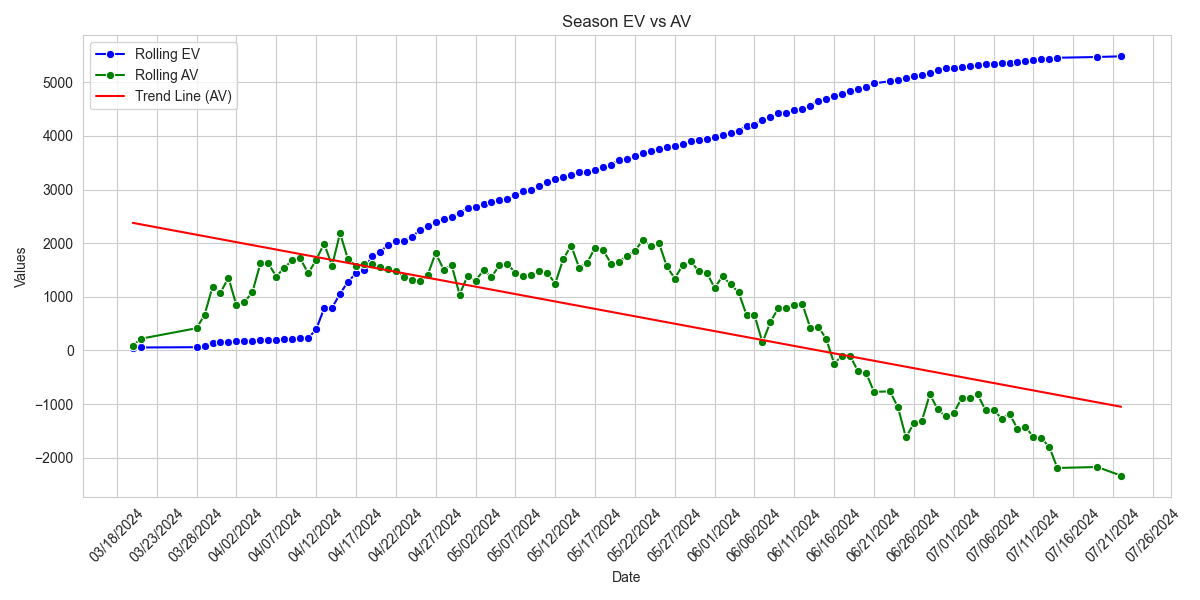
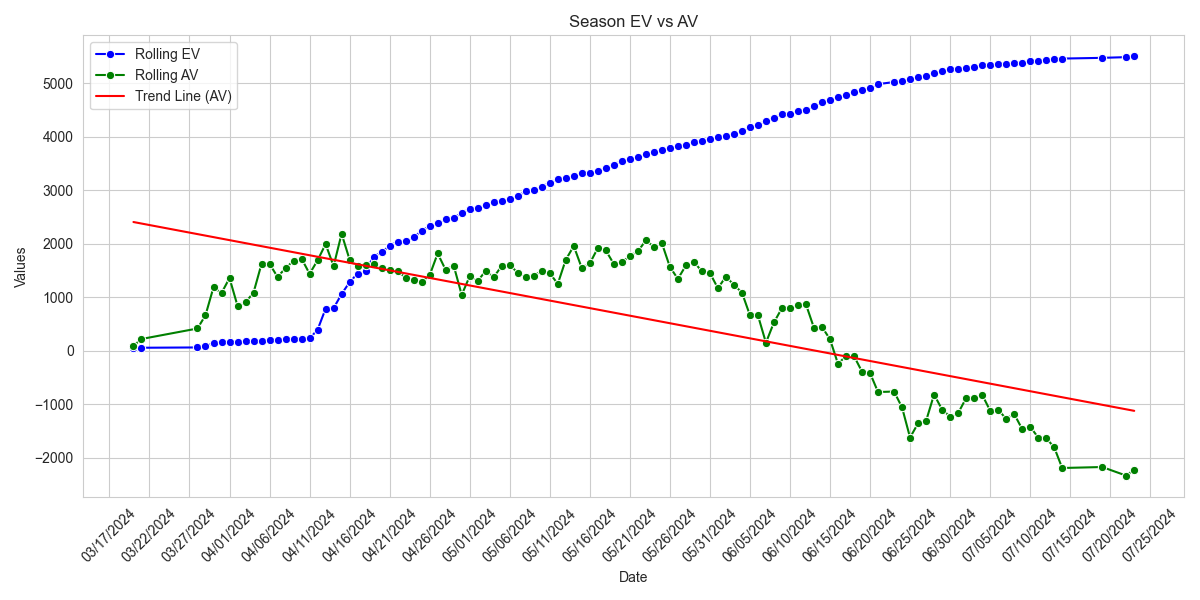
web

diff --git a/index.html b/index.html
@@ -1,1 +1,1 @@
-<html><head><meta name="viewport" content="width=device-width, initial-scale=1"><meta http-equiv="Cache-Control" content="no-cache, no-store, must-revalidate"><meta http-equiv="Pragma" content="no-cache"><meta http-equiv="Expires" content="0"><title>MLB Shit</title><link rel="stylesheet" type="text/css" href="styles.css"></head><body><p><b>Daily Picks</b></p><table><tr><th>Date</th><th>Team</th><th>Price</th><th>Bet</th><th>Win</th><th>WP</th><th>EV</th><th>Type</th><th>Result</th></tr><tr><td>07/23/2024</td><td><img src='https://www.mlbstatic.com/team-logos/138.svg' height=30 width=30></td><td>+154</td><td>$64.75</td><td>$99.72</td><td>41.9%</td><td>4.2%</td><td>Dog</td><td></td></td><tr><td>07/23/2024</td><td><img src='https://www.mlbstatic.com/team-logos/110.svg' height=30 width=30></td><td>-162</td><td>$104.00</td><td>$64.20</td><td>65.9%</td><td>6.8%</td><td>Fav</td><td></td></td><tr><td>07/23/2024</td><td><img src='https://www.mlbstatic.com/team-logos/114.svg' height=30 width=30></td><td>-135</td><td>$90.00</td><td>$66.67</td><td>58.9%</td><td>2.3%</td><td>Fav</td><td></td></td><tr><td>07/23/2024</td><td><img src='https://www.mlbstatic.com/team-logos/147.svg' height=30 width=30></td><td>-162</td><td>$95.00</td><td>$58.64</td><td>62.1%</td><td>0.4%</td><td>Fav</td><td></td></td><tr><td>07/23/2024</td><td><img src='https://www.mlbstatic.com/team-logos/139.svg' height=30 width=30></td><td>+114</td><td>$71.25</td><td>$81.23</td><td>47.2%</td><td>0.7%</td><td>Dog</td><td></td></td><tr><td>07/23/2024</td><td><img src='https://www.mlbstatic.com/team-logos/119.svg' height=30 width=30></td><td>-142</td><td>$90.75</td><td>$63.91</td><td>59.5%</td><td>1.3%</td><td>Fav</td><td></td></td><tr><th colspan=9><B>SUMMARY: $515.75 in play to win $434.37</B></th></tr><tr><th colspan=9><B>LAST UPDATED: 07/23/2024 03:36 PM</B></th></tr></table><p><b>Monthly Totals</b></p><table><tr><th>Date</th><th>Profit</th><th>W/L</th><th>Favs</th><th>Dogs</th><th>Fav $</th><th>Dog $</th></tr><tr><td>07/01/2024</td><td>$62.68</td><td>1-0</td><td>1-0</td><td>0</td><td>$62.68</td><td>$0.00</td></td><tr><td>07/02/2024</td><td>$281.90</td><td>7-3</td><td>3-1</td><td>4-2</td><td>$107.39</td><td>$174.51</td></td><tr><td>07/03/2024</td><td>$-0.70</td><td>5-4</td><td>2-3</td><td>3-1</td><td>$-167.00</td><td>$166.30</td></td><tr><td>07/04/2024</td><td>$66.25</td><td>5-3</td><td>4-3</td><td>1-0</td><td>$-20.96</td><td>$87.21</td></td><tr><td>07/05/2024</td><td>$-298.50</td><td>2-5</td><td>2-3</td><td>0-2</td><td>$-146.25</td><td>$-152.25</td></td><tr><td>07/06/2024</td><td>$17.15</td><td>4-3</td><td>4-2</td><td>0-1</td><td>$89.90</td><td>$-72.75</td></td><tr><td>07/07/2024</td><td>$-169.83</td><td>2-4</td><td>2-1</td><td>0-3</td><td>$43.42</td><td>$-213.25</td></td><tr><td>07/08/2024</td><td>$90.88</td><td>4-2</td><td>3-1</td><td>1-1</td><td>$94.18</td><td>$-3.30</td></td><tr><td>07/09/2024</td><td>$-282.30</td><td>1-4</td><td>1-3</td><td>0-1</td><td>$-213.80</td><td>$-68.50</td></td><tr><td>07/10/2024</td><td>$44.66</td><td>7-5</td><td>3-5</td><td>4-0</td><td>$-296.13</td><td>$340.79</td></td><tr><td>07/11/2024</td><td>$-203.27</td><td>2-4</td><td>2-2</td><td>0-2</td><td>$-54.77</td><td>$-148.50</td></td><tr><td>07/12/2024</td><td>$-11.66</td><td>3-3</td><td>2-0</td><td>1-3</td><td>$131.05</td><td>$-142.71</td></td><tr><td>07/13/2024</td><td>$-169.94</td><td>4-5</td><td>3-4</td><td>1-1</td><td>$-171.59</td><td>$1.65</td></td><tr><td>07/14/2024</td><td>$-388.12</td><td>4-7</td><td>4-5</td><td>0-2</td><td>$-243.12</td><td>$-145.00</td></td><tr><td>07/19/2024</td><td>$18.40</td><td>3-2</td><td>3-2</td><td>0</td><td>$18.40</td><td>$0.00</td></td><tr><td>07/22/2024</td><td>$-160.78</td><td>3-4</td><td>3-2</td><td>0-2</td><td>$-8.78</td><td>$-152.00</td></td><tr><th colspan=7>TOTALS</th></tr><tr><th colspan=2>Monthly Profit</th><th colspan=2>W%</th><th>Fav W%</th><th>Dog W%</th><th>Predicted Upset W%</th></tr><tr><td colspan=2>$-1,103.18</td><td colspan=2>49.6%</td><td>53.2%</td><td>41.7%</td><td>40.0%</td></tr></table><p><b>Season Totals</b></p><table width="30%"><tr><th width="25%">Month</th><th width="25%">Profit</th><th width="25%" colspan=2>Bankroll Growth</th></tr><tr><td>March</td><td>$1,077.72</td><td colspan=2>13.4715%</td></td><tr><td>April</td><td>$-35.26</td><td colspan=2>-0.44075%</td></td><tr><td>May</td><td>$410.27</td><td colspan=2>5.128375%</td></td><tr><td>June</td><td>$-2,683.52</td><td colspan=2>-33.544%</td></td><tr><td>July</td><td>$-1,103.18</td><td colspan=2>-13.78975%</td></td><tr><td><b><i>TOTAL</i></b></td><td><b><i>$-2,333.97</i></b></td><td colspan=2><b><i>-29.174625%</i></b></td></td><tr><th colspan=4>Performance</th></tr><tr><th>Season W%</th><th>Fav W%</th><th>Dog W%</th><th>Predicted Upset W%</th></tr><tr><td>50.7%</td><td>56.6%</td><td>45.3%</td><td>47.5%</td></tr></table><p><table><tr><td><img class="chart" src="images/ev_graph.png"></td></tr></table></p></body></html>
+<html><head><meta name="viewport" content="width=device-width, initial-scale=1"><meta http-equiv="Cache-Control" content="no-cache, no-store, must-revalidate"><meta http-equiv="Pragma" content="no-cache"><meta http-equiv="Expires" content="0"><title>MLB Shit</title><link rel="stylesheet" type="text/css" href="styles.css"></head><body><p><b>Daily Picks</b></p><table><tr><th>Date</th><th>Team</th><th>Price</th><th>Bet</th><th>Win</th><th>WP</th><th>EV</th><th>Type</th><th>Result</th></tr><tr><td>07/24/2024</td><td><img src='https://www.mlbstatic.com/team-logos/158.svg' height=30 width=30></td><td>+120</td><td>$68.75</td><td>$82.50</td><td>45.6%</td><td>0.2%</td><td>Dog</td><td></td></td><tr><td>07/24/2024</td><td><img src='https://www.mlbstatic.com/team-logos/114.svg' height=30 width=30></td><td>-155</td><td>$93.25</td><td>$60.16</td><td>61.0%</td><td>0.3%</td><td>Fav</td><td></td></td><tr><td>07/24/2024</td><td><img src='https://www.mlbstatic.com/team-logos/110.svg' height=30 width=30></td><td>-142</td><td>$93.75</td><td>$66.02</td><td>60.9%</td><td>3.5%</td><td>Fav</td><td></td></td><tr><td>07/24/2024</td><td><img src='https://www.mlbstatic.com/team-logos/147.svg' height=30 width=30></td><td>-170</td><td>$99.75</td><td>$58.68</td><td>64.3%</td><td>2.1%</td><td>Fav</td><td></td></td><tr><td>07/24/2024</td><td><img src='https://www.mlbstatic.com/team-logos/145.svg' height=30 width=30></td><td>+210</td><td>$50.75</td><td>$106.58</td><td>32.4%</td><td>0.2%</td><td>Dog</td><td></td></td><tr><th colspan=9><B>SUMMARY: $406.25 in play to win $373.94</B></th></tr><tr><th colspan=9><B>LAST UPDATED: 07/24/2024 08:27 AM</B></th></tr></table><p><b>Monthly Totals</b></p><table><tr><th>Date</th><th>Profit</th><th>W/L</th><th>Favs</th><th>Dogs</th><th>Fav $</th><th>Dog $</th></tr><tr><td>07/01/2024</td><td>$62.68</td><td>1-0</td><td>1-0</td><td>0</td><td>$62.68</td><td>$0.00</td></td><tr><td>07/02/2024</td><td>$281.90</td><td>7-3</td><td>3-1</td><td>4-2</td><td>$107.39</td><td>$174.51</td></td><tr><td>07/03/2024</td><td>$-0.70</td><td>5-4</td><td>2-3</td><td>3-1</td><td>$-167.00</td><td>$166.30</td></td><tr><td>07/04/2024</td><td>$66.25</td><td>5-3</td><td>4-3</td><td>1-0</td><td>$-20.96</td><td>$87.21</td></td><tr><td>07/05/2024</td><td>$-298.50</td><td>2-5</td><td>2-3</td><td>0-2</td><td>$-146.25</td><td>$-152.25</td></td><tr><td>07/06/2024</td><td>$17.15</td><td>4-3</td><td>4-2</td><td>0-1</td><td>$89.90</td><td>$-72.75</td></td><tr><td>07/07/2024</td><td>$-169.83</td><td>2-4</td><td>2-1</td><td>0-3</td><td>$43.42</td><td>$-213.25</td></td><tr><td>07/08/2024</td><td>$90.88</td><td>4-2</td><td>3-1</td><td>1-1</td><td>$94.18</td><td>$-3.30</td></td><tr><td>07/09/2024</td><td>$-282.30</td><td>1-4</td><td>1-3</td><td>0-1</td><td>$-213.80</td><td>$-68.50</td></td><tr><td>07/10/2024</td><td>$44.66</td><td>7-5</td><td>3-5</td><td>4-0</td><td>$-296.13</td><td>$340.79</td></td><tr><td>07/11/2024</td><td>$-203.27</td><td>2-4</td><td>2-2</td><td>0-2</td><td>$-54.77</td><td>$-148.50</td></td><tr><td>07/12/2024</td><td>$-11.66</td><td>3-3</td><td>2-0</td><td>1-3</td><td>$131.05</td><td>$-142.71</td></td><tr><td>07/13/2024</td><td>$-169.94</td><td>4-5</td><td>3-4</td><td>1-1</td><td>$-171.59</td><td>$1.65</td></td><tr><td>07/14/2024</td><td>$-388.12</td><td>4-7</td><td>4-5</td><td>0-2</td><td>$-243.12</td><td>$-145.00</td></td><tr><td>07/19/2024</td><td>$18.40</td><td>3-2</td><td>3-2</td><td>0</td><td>$18.40</td><td>$0.00</td></td><tr><td>07/22/2024</td><td>$-160.78</td><td>3-4</td><td>3-2</td><td>0-2</td><td>$-8.78</td><td>$-152.00</td></td><tr><td>07/23/2024</td><td>$112.53</td><td>4-2</td><td>2-2</td><td>2-0</td><td>$-68.42</td><td>$180.95</td></td><tr><th colspan=7>TOTALS</th></tr><tr><th colspan=2>Monthly Profit</th><th colspan=2>W%</th><th>Fav W%</th><th>Dog W%</th><th>Predicted Upset W%</th></tr><tr><td colspan=2>$-990.65</td><td colspan=2>50.4%</td><td>53.0%</td><td>44.7%</td><td>40.0%</td></tr></table><p><b>Season Totals</b></p><table width="30%"><tr><th width="25%">Month</th><th width="25%">Profit</th><th width="25%" colspan=2>Bankroll Growth</th></tr><tr><td>March</td><td>$1,077.72</td><td colspan=2>13.4715%</td></td><tr><td>April</td><td>$-35.26</td><td colspan=2>-0.44075%</td></td><tr><td>May</td><td>$410.27</td><td colspan=2>5.128375%</td></td><tr><td>June</td><td>$-2,683.52</td><td colspan=2>-33.544%</td></td><tr><td>July</td><td>$-990.65</td><td colspan=2>-12.383125%</td></td><tr><td><b><i>TOTAL</i></b></td><td><b><i>$-2,221.44</i></b></td><td colspan=2><b><i>-27.768%</i></b></td></td><tr><th colspan=4>Performance</th></tr><tr><th>Season W%</th><th>Fav W%</th><th>Dog W%</th><th>Predicted Upset W%</th></tr><tr><td>50.8%</td><td>56.5%</td><td>45.5%</td><td>47.5%</td></tr></table><p><table><tr><td><img class="chart" src="images/ev_graph.png"></td></tr></table></p></body></html>
